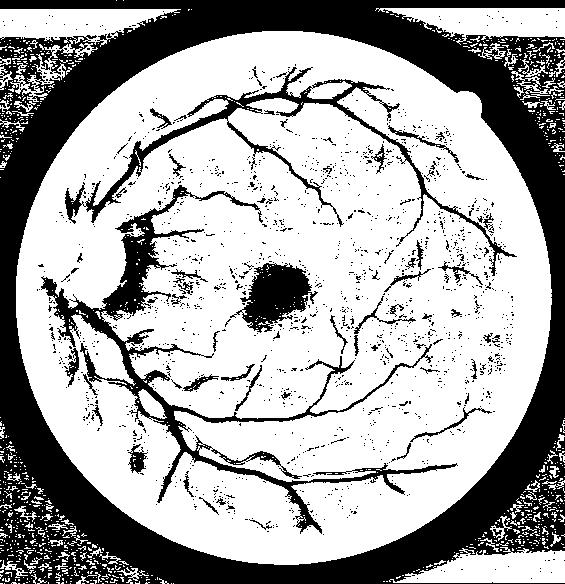
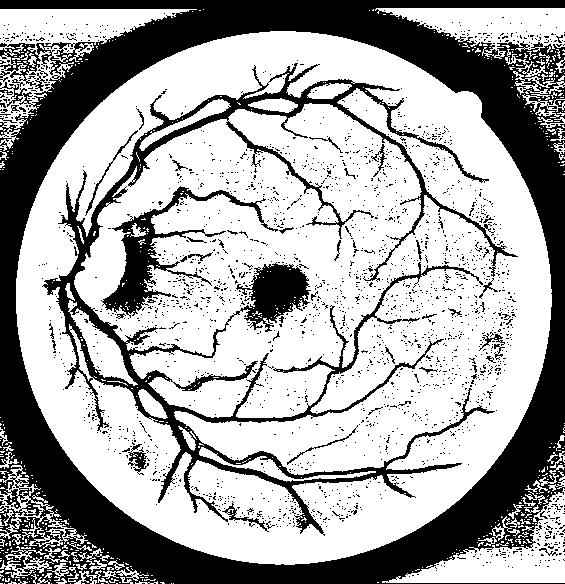
merged all code in one function

diff --git a/main.m b/main.m
@@ -1,3 +1,7 @@
+clear; % clearing variables from previous runs
+
+% options
+show_debug_imgs = false;
 
 % set input and output locations
 input_dir = './input/DRIVE_database/';
@@ -10,6 +14,9 @@ results =fopen(strcat(output_dir, 'results.csv'), 'w' );
 for file = files'
     % load the image
     img = imread(strcat(input_dir,file.name));
+    if show_debug_imgs
+        figure, imshow(img), title('Red channel');
+    end
     % filename = split(file.name,'.'); <- works for earlier MATLAB versions
     filename = strsplit(file.name,'.');
     % splits the filename at the dot
@@ -19,15 +26,24 @@ for file = files'
     %create the name of mask corresponding to current image
     mask = imread(MaskName);
     
-    % convert the image to red color
-    red = img(:,:,1);
+    %%%% Changing to red color
+    red = img(:,:,1); % Red channel
     a = zeros(size(img, 1), size(img, 2));
     just_red = cat(3, red, a, a);
-    % store the converted image to disk for debugging
-    imwrite(just_red, strcat(output_dir,file.name(1:end-4),'_red.jpg'));
+    if show_debug_imgs
+        figure, imshow(just_red), title('Red channel')
+    end
+    %imwrite(just_red, strcat(output_dir,file.name(1:end-4),'_red.jpg'));
+    
+    %%%% Changing to green
+    green = img(:,:,2); % Green channel
+    just_green = cat(3, a, green, a);
+    if show_debug_imgs
+        figure, imshow(just_green), title('Green channel')
+    end
     
     % convert the image to black and white
-    grayscale = rgb2gray(just_red);
+    grayscale = rgb2gray(img);
     imgBW=imbinarize(grayscale,'adaptive','sensitivity',0.63);
     % store the converted image to disk for debugging
     imwrite(imgBW, strcat(output_dir,file.name(1:end-4),'_bw.jpg'));
